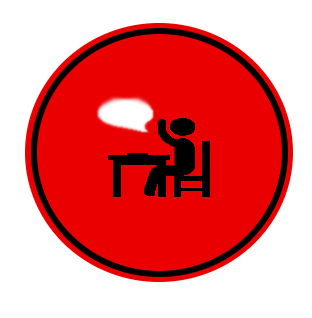
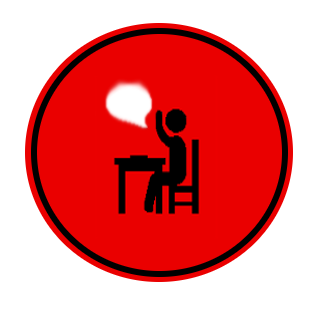
Home page Cleaned up.
I fixed up the home page icons and background
as well as the banners and text.  The icons
aren't necessarily even.  Let me know what you
think.

Changed region(s): [[0.2885, 0.2547, 0.6923, 0.6792]]

diff --git a/app/assets/stylesheets/application.css.scss b/app/assets/stylesheets/application.css.scss
@@ -11,6 +11,7 @@
  *= require_self
  *= require_tree .
  */
+@import "bootstrap";
 
 body{
 	height: 100%;
@@ -23,13 +24,11 @@ body{
 }
 
 #HomePage{
- 	background-color: #000;
 	h1{
-		color: white;
-		font-family: "new century schoolbook";
+		color: $grayLight;
 		padding-top: 10px;
 		text-align: right;
-		padding-right: 18px;
+		padding-right: 25px;
 		font-size: 28px
 	}
 }

diff --git a/app/assets/stylesheets/custom.css.scss b/app/assets/stylesheets/custom.css.scss
@@ -71,7 +71,7 @@ p {
 	
 	h3 {
 	text-align: center;
-	color: #bababa;
+	color: #000;
 	}
 }
 
